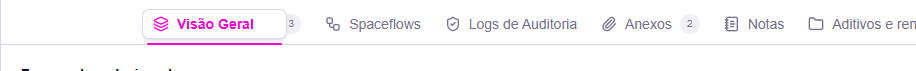
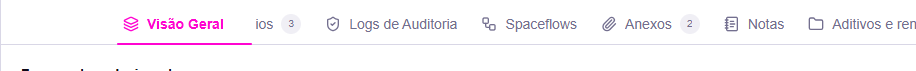
[PROTO] pastas-do-item — rodada 3 — arrasto do Sublinhado sem ficha: desliza o espaço da aba e a barra

diff --git a/app/pages/pastas-do-item/_BarraDePastas.vue b/app/pages/pastas-do-item/_BarraDePastas.vue
@@ -338,10 +338,11 @@ const aparencia = computed(() => {
             'data-[state=inactive]:after:bg-primary/35 hover:data-[state=inactive]:after:scale-x-100',
             'data-[state=active]:after:bg-primary data-[state=active]:after:scale-x-100',
             'data-[state=active]:font-semibold data-[state=active]:pr-8',
-            // Arrastando: a aba vira uma ficha leve, por cima das vizinhas (como no "Hoje"), e o traço vai junto.
-            'before:absolute before:inset-x-0 before:inset-y-1.5 before:-z-10 before:rounded-md before:transition-[background-color,box-shadow]',
+            // Arrastando: sem ficha, sem sombra, sem subir. Desliza o espaço da aba (fundo da página, que cobre
+            // as vizinhas ao passar por cima) com a barra embaixo: rosa forte na aberta, rosa fraco na fechada.
+            'before:absolute before:inset-0 before:-z-10',
             'data-[arrastando=true]:z-10 data-[arrastando=true]:cursor-grabbing data-[arrastando=true]:text-highlighted',
-            'data-[arrastando=true]:before:bg-default data-[arrastando=true]:before:shadow-md data-[arrastando=true]:before:ring data-[arrastando=true]:before:ring-default',
+            'data-[arrastando=true]:before:bg-default data-[arrastando=true]:after:scale-x-100',
           ].join(' '),
           leadingIcon: 'size-4',
           trailingBadge: 'rounded-full px-1.5 min-w-5 justify-center bg-elevated ring-0 text-muted group-data-[state=active]:bg-primary/10 group-data-[state=active]:text-primary',

diff --git a/app/pages/pastas-do-item/DECISOES.md b/app/pages/pastas-do-item/DECISOES.md
@@ -26,7 +26,7 @@ A folder vira aba: texto sobre uma linha de base que é a borda de cima do conte
 | 2 | Cada folder é um chip com contorno, sombra e 4 px de espaço | Texto e ícone soltos, sem contorno nem sombra | Tirei a caixa de todas. O que separa uma folder da outra é o espaço do texto; no Navegador, um fio vertical entre as inativas, que some ao lado da ativa |
 | 3 | Hover acende o chip inteiro, como botão | Sublinhado: texto mais forte e traço rosa fraco crescendo sobre a linha de base. Navegador: a aba inteira em cinza | Sem fundo no Sublinhado: o hover é uma prévia do traço da ativa, na cor de destaque mais fraca (rodada 2) |
 | 4 | Barra e conteúdo não se tocam: faixa sem borda, linha solta 45 px abaixo | Linha de base contínua de ponta a ponta; o conteúdo começa logo abaixo dela | A linha de base virou a borda de cima do conteúdo. A linha solta da Visão Geral saiu, porque repetia a separação |
-| 5 | Arrasto nativo: cópia translúcida por cima, original parada, vizinha troca só na borda | A própria folder segue o mouse como ficha leve, por cima das vizinhas; a vizinha desliza assim que o centro da arrastada passa da metade dela; a aberta leva o traço junto | Arrasto por ponteiro: depois de 5 px a folder engata, acompanha o mouse e as vizinhas abrem espaço com transição, como as abas do Chrome. Arrastar não abre a folder (rodada 2) |
+| 5 | Arrasto nativo: cópia translúcida por cima, original parada, vizinha troca só na borda | A própria folder segue o mouse por cima das vizinhas (no Sublinhado, só o espaço dela e a barra, sem ficha nem sombra); a vizinha desliza assim que o centro da arrastada passa da metade dela; a aberta leva o traço junto | Arrasto por ponteiro: depois de 5 px a folder engata, acompanha o mouse e as vizinhas abrem espaço com transição, como as abas do Chrome. Arrastar não abre a folder (rodada 2) |
 | 6 | Soltar no mesmo lugar abre popup de salvar | Soltar no mesmo lugar não faz nada; ordem nova salva sozinha, com aviso "Ordem das folders salva." e Desfazer | A barra compara a posição de saída e a de chegada; só avisa quando muda. Sem popup de confirmação: o Desfazer cobre o arrependimento |
 | 7 | "+ ⌄" abre menu com 1 item (Nova folder) | "+" cria a folder direto; "+N ⌄" só aparece quando sobra folder | Separei as 2 ações: criar é 1 clique; ver as escondidas é outro botão, que some quando cabem todas |
 | 8 | Menu "+N" com lista, busca e alça de arrasto | Menu "+N" com busca (CommandPalette), contador e "⋯" na linha em foco | Usei o padrão Popover + CommandPalette do Nuxt UI: busca, teclado e mensagem "Nenhuma folder encontrada." vêm prontos. Escolher uma escondida a traz para a barra e a abre |
@@ -51,6 +51,13 @@ A folder vira aba: texto sobre uma linha de base que é a borda de cima do conte
 - **Fronteira:** muda hover, ativação e arrasto da barra; não muda o resto
 - **Descartado:** traço deslizante entre folders (indicador do `UTabs`). Motivo: ele não acompanha a aba arrastada
 - **Ver:** `http://localhost:3000/pastas-do-item?estilo=sublinhado` · `evidencias/proposta-hover.png`, `proposta-arrastar.png`, `proposta-arrastar-a-aberta.png`
+
+## Rodada 3 · 2026-10-08
+
+- **Pedido (literal):** "na hora de arrastar no modelo sublinhado, nao faça parecer um \"quadradinho\" a aba. simplesmente arraste o espaço dela + a barra de baixo, sem \"subir\" e colocar sombra [...] mas mantenha essa logica de \"passou da metade, ja troca de lugar\", como ta hoje, e passando por cima das barras ao lado"
+- **Mudou:** no Sublinhado, a folder arrastada perde a ficha (contorno, sombra, canto e elevação). Desliza só o espaço dela, com o fundo da página para cobrir as vizinhas, e a barra embaixo: rosa forte na aberta, rosa fraco na fechada
+- **Fronteira:** muda só a aparência do arrasto no Sublinhado; a troca na metade, a camada por cima e os outros 2 estilos ficam como na rodada 2
+- **Ver:** `http://localhost:3000/pastas-do-item?estilo=sublinhado` · `evidencias/proposta-arrastar.png`, `proposta-arrastar-a-aberta.png`
 
 ### Como a barra foi montada
 
